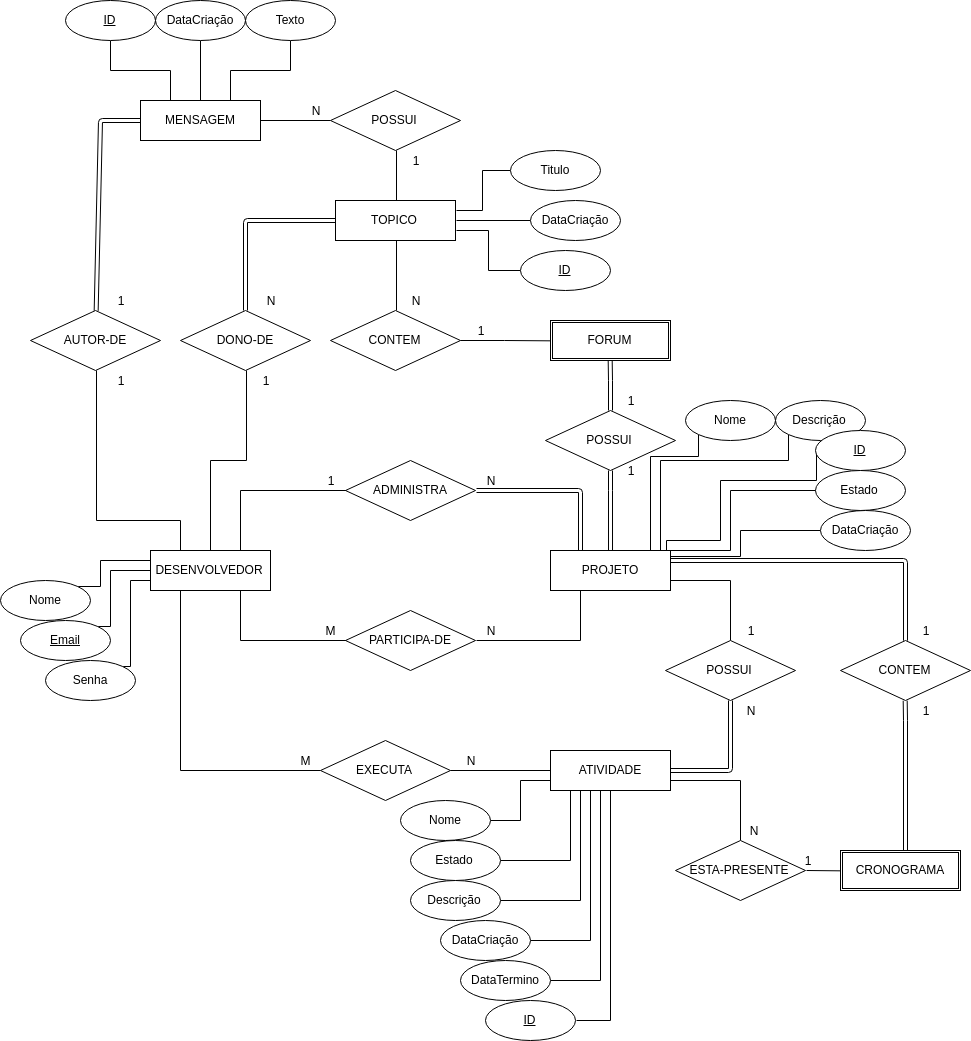
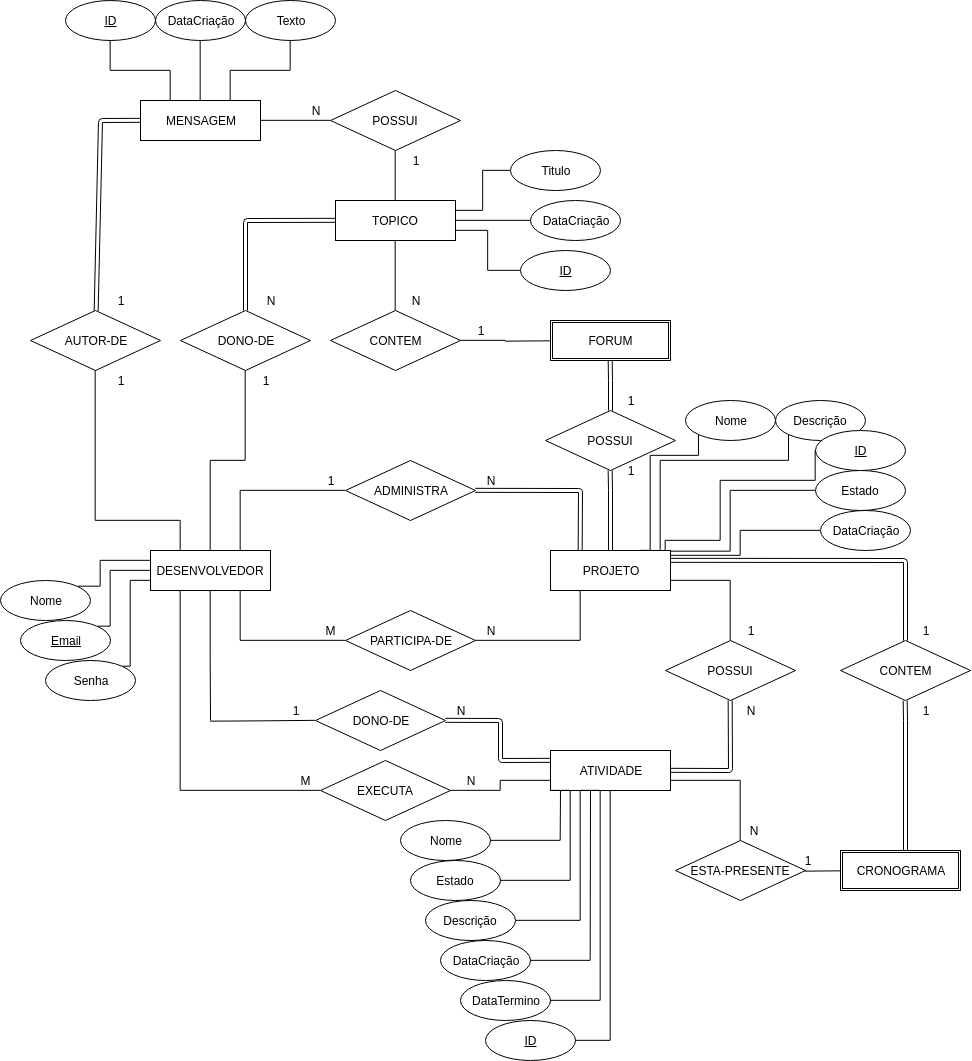
ajustes na modelagem e adicionando consultas

diff --git a/fase2/requisitos.tex b/fase2/requisitos.tex
@@ -1,4 +1,4 @@
-\documentclass{article}
+c\documentclass{article}
 \usepackage[utf8]{inputenc}
 \usepackage{graphicx}
 \usepackage{lmodern}
@@ -126,11 +126,20 @@
 
 
 \section{Modelagem Física}
-	Para a modelagem física, vamos dividir em duas partes: a primeira será a criação das relações (DDL) e a segunda será o povoamento do banco de dados com nossas informações (DML). Vale ressaltar que para a execução dos comandos, o usuário
+	Para a modelagem física, vamos dividir em duas partes: a primeira será a criação das relações (DDL) e a segunda será o povoamento do banco de dados com nossas informações (DML).
 	\subsection{DDL}
 		O script de DDL se encontra juntamente com esse documento. Nele, fazemos a criação de todas as relações do sistema, tendo em vista que o SGBD é um PostgreSQL. Diversas restrições de dados podem ser encontradas no script, isso garante que alguns dados sempre estejam presentes nas tuplas.
 		
 	\subsection{DML}
 		Para a manipulação de dados, criamos um script (que se encontra juntamente com esse documento) que adiciona diversas informações no banco de dados que criamos anteriormente. Além da população, nosso script também realizará algumas consultas ao banco de dados, são elas:
+		\begin{itemize}
+			\item Obter as atividades do projeto identificado por 1.\\
+
+			\item Obter o nome dos desenvolvedores que terminaram pelo menos uma atividade.\\
+
+			\item Obter o nome dos projetos no qual o desenvolvedor cujo email é "green@gmail.com" enviou uma mensagem.\\
+
+		\end{itemize}
+
 
 \end{document}
